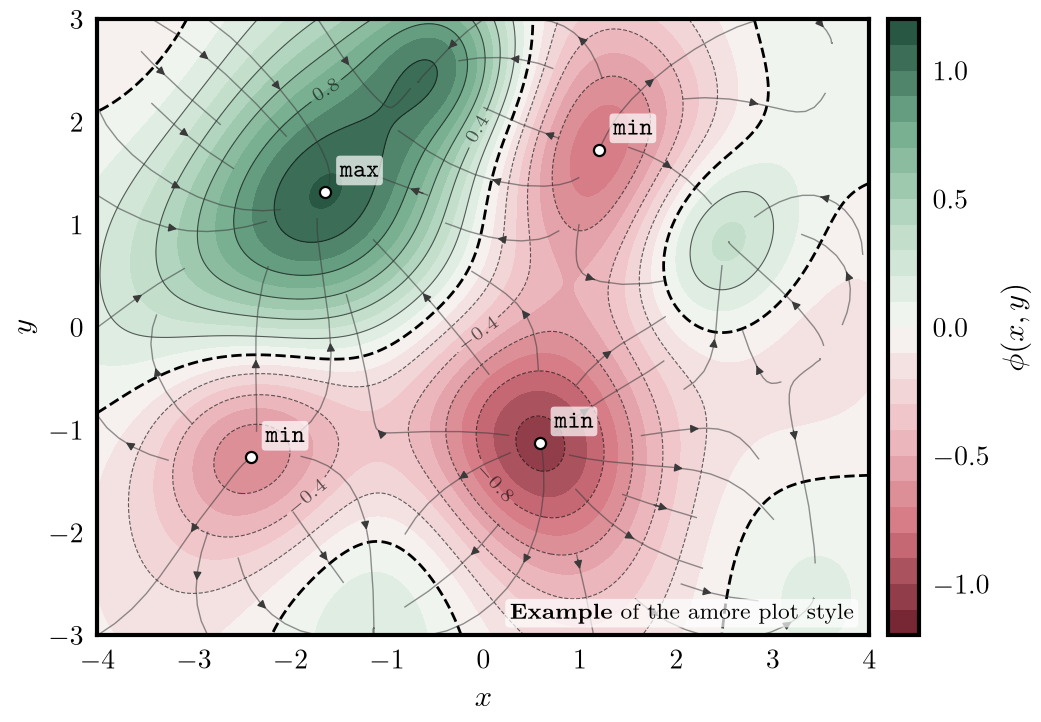
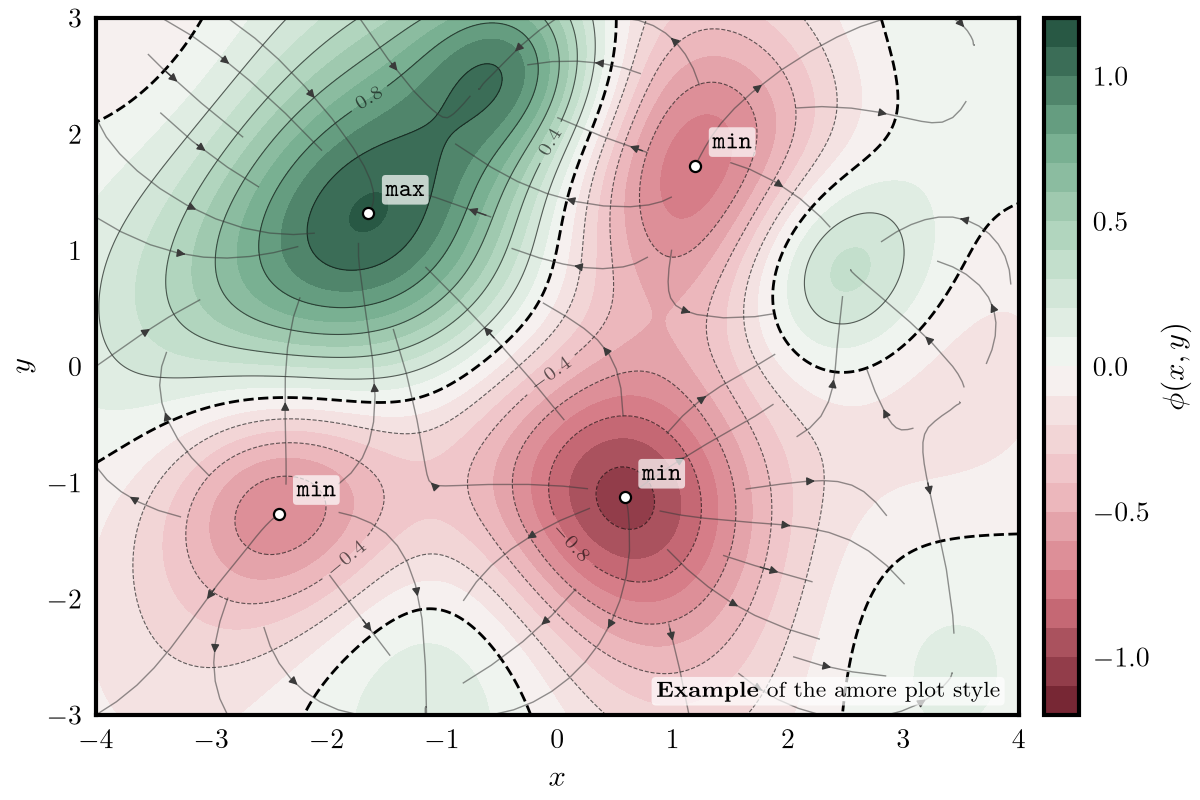
docs: README shows three amore figures of one size; the skill gives the colour pairs
README says that amore is the author's own style, with physrev_mplstyle as a
starting point. The three example figures are 1200 x 800 px. The skill names
the palette pairs and the triad, exact_size and the tag corner.

Claude-Session: https://claude.ai/code/session_014jvk12Cx7MpCLE6J3t3DqW

diff --git a/.claude/skills/plotting/SKILL.md b/.claude/skills/plotting/SKILL.md
@@ -22,27 +22,33 @@ The plot style `amore` is in `src/python/amore/`:
 
 1. Import `amore` and call `amore.use()` before you make a figure. Do not set the fonts, the
    frame width, the tick direction or the grid by hand. The style owns them.
-2. Take each colour from `amore.palette("blue")`, `amore.palette("green")` or
-   `amore.palette("red")`. Each palette has four tones:
+2. Take each colour from a palette: `amore.palette(name)` with `name` one of `blue`, `green`,
+   `red`, `teal`, `amber` or `plum`. Each palette has four tones:
    - `ink` for a reference or an exact curve
    - `main` for the computed result
    - `light` for a fill
    - `shade` for a background band
-3. For a contour plot or an image, use `amore.cmap(name)`. For a signed field, use
+3. Choose palettes that work together. For two quantities, use teal and amber
+   (split-complementary) or red and green (complementary). For three quantities, use teal,
+   amber and plum (close to a triad, about 120 degrees apart). Blue stands alone. Do not put two
+   neighbouring hues (blue and teal, for example) on two different quantities.
+4. For a contour plot or an image, use `amore.cmap(name)`. For a signed field, use
    `amore.diverging("red", "green")` with `vmin = -vmax`, so that zero is at the centre.
-4. Draw a line on top of a colour map (flow lines, guides) in `amore.OVERLAY` at
+5. Draw a line on top of a colour map (flow lines, guides) in `amore.OVERLAY` at
    `amore.OVERLAY_ALPHA`. This is a dark neutral grey. White vanishes on the light centre of a
    map. Black competes with the contour lines. A coloured line looks like a quantity.
-5. Use one palette for one family of figures. Then one quantity has one colour in the whole
+6. Use one palette for one family of figures. Then one quantity has one colour in the whole
    document.
-6. Write each axis label, legend entry and mathematical symbol in LaTeX. Write a text note
+7. Write each axis label, legend entry and mathematical symbol in LaTeX. Write a text note
    inside the axes in monospace. `amore.shade(ax, x0, x1, "label")` does this, or use
    `\texttt{...}`.
-7. Mark a region with `amore.shade()`. Show a detail with `amore.inset()`. Put a status line,
-   for example the figure that you reproduce, with `amore.tag()`.
-8. Save with `amore.save(fig, path)`. It writes a PDF for the paper and a PNG for review, side
-   by side.
-9. A script makes each figure from the records (CLAUDE.md §10). Never edit a figure by hand.
+8. Mark a region with `amore.shade()`. Show a detail with `amore.inset()`. Put a status line,
+   for example the figure that you reproduce, with `amore.tag(ax, text, loc)`. Choose the corner
+   where it hides no data.
+9. Save with `amore.save(fig, path)`. It writes a PDF for the paper and a PNG for review, side
+   by side. For figures that sit side by side, use `layout="constrained"` and
+   `exact_size=True`, so that each file has the same size.
+10. A script makes each figure from the records (CLAUDE.md §10). Never edit a figure by hand.
 
 ## Look at the figure before you call it done
 

diff --git a/README.md b/README.md
@@ -32,15 +32,16 @@ say no, the decision is final. The charter states this rule.
   record of how the project produced it.
 - Continuity between sessions. The project keeps the current status, a handoff note and the
   captured prompts. Guards protect the sources and the accepted results.
-- One plot style, `amore`, for every figure. Labels use LaTeX. Colours come from muted blue,
-  green and red palettes. Notes inside a plot use a monospace font. The `plotting` skill applies
+- One plot style, `amore`, for every figure. I made it for my own papers. Labels use LaTeX.
+  Colours come from muted palettes, chosen in pairs that work together. Notes inside a plot use a
+  monospace font. The `plotting` skill applies
   the style, and Claude looks at each rendered figure before it calls the figure done.
   `make check` fails if a plotting script does not use the style. `make plot-examples` makes
   these three figures again from `src/python/amore/examples.py`.
 
 <p align="center">
   <img src="docs/figures/amore_blue.png" width="32%" alt="Example figure in the blue palette">
-  <img src="docs/figures/amore_red.png" width="32%" alt="Example figure in the red palette">
+  <img src="docs/figures/amore_teal.png" width="32%" alt="Example figure in the teal, amber and plum palettes">
   <img src="docs/figures/amore_green.png" width="32%" alt="Example contour figure in the green palette">
 </p>
 
@@ -162,8 +163,8 @@ me ([post](https://www.anthropic.com/research/vibe-physics),
 
 Other repositories contributed parts:
 
-- [hosilva/physrev_mplstyle](https://github.com/hosilva/physrev_mplstyle) — the plot style is
-  inspired by its Physical Review style sheet.
+- [hosilva/physrev_mplstyle](https://github.com/hosilva/physrev_mplstyle) — its Physical Review
+  style sheet was a starting point for `amore`.
 
 - [benning-lab/agentic-starter](https://github.com/benning-lab/agentic-starter) — the handoff
   with its age, transcripts outside the repo, source formats over PDFs.
